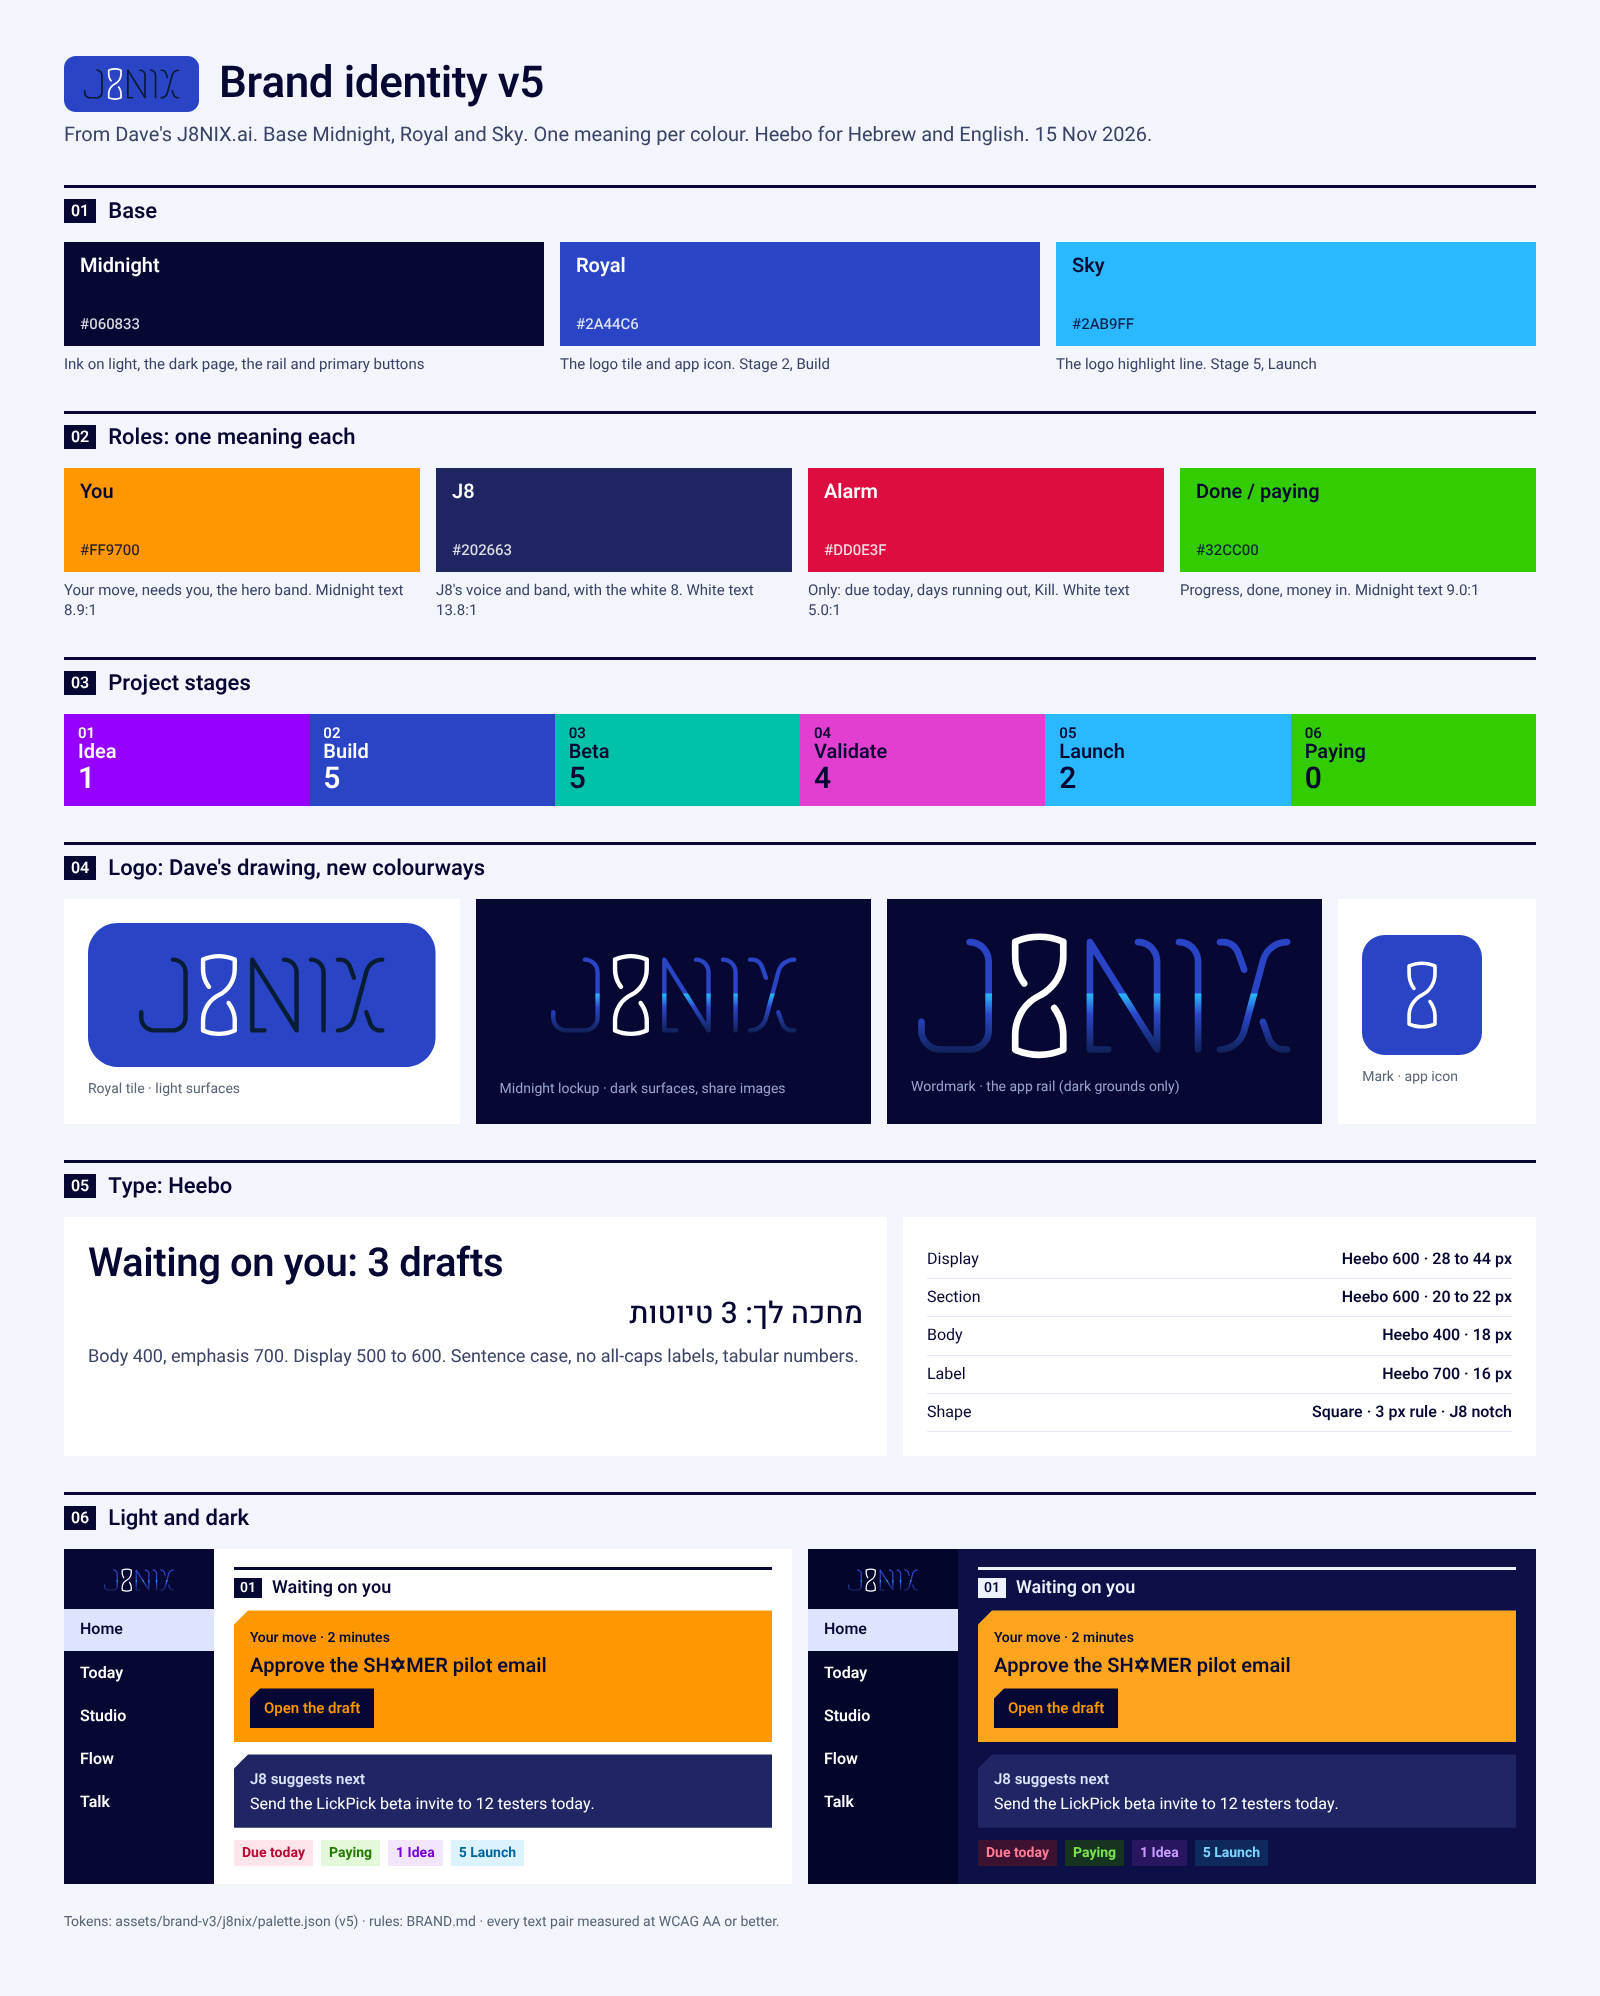
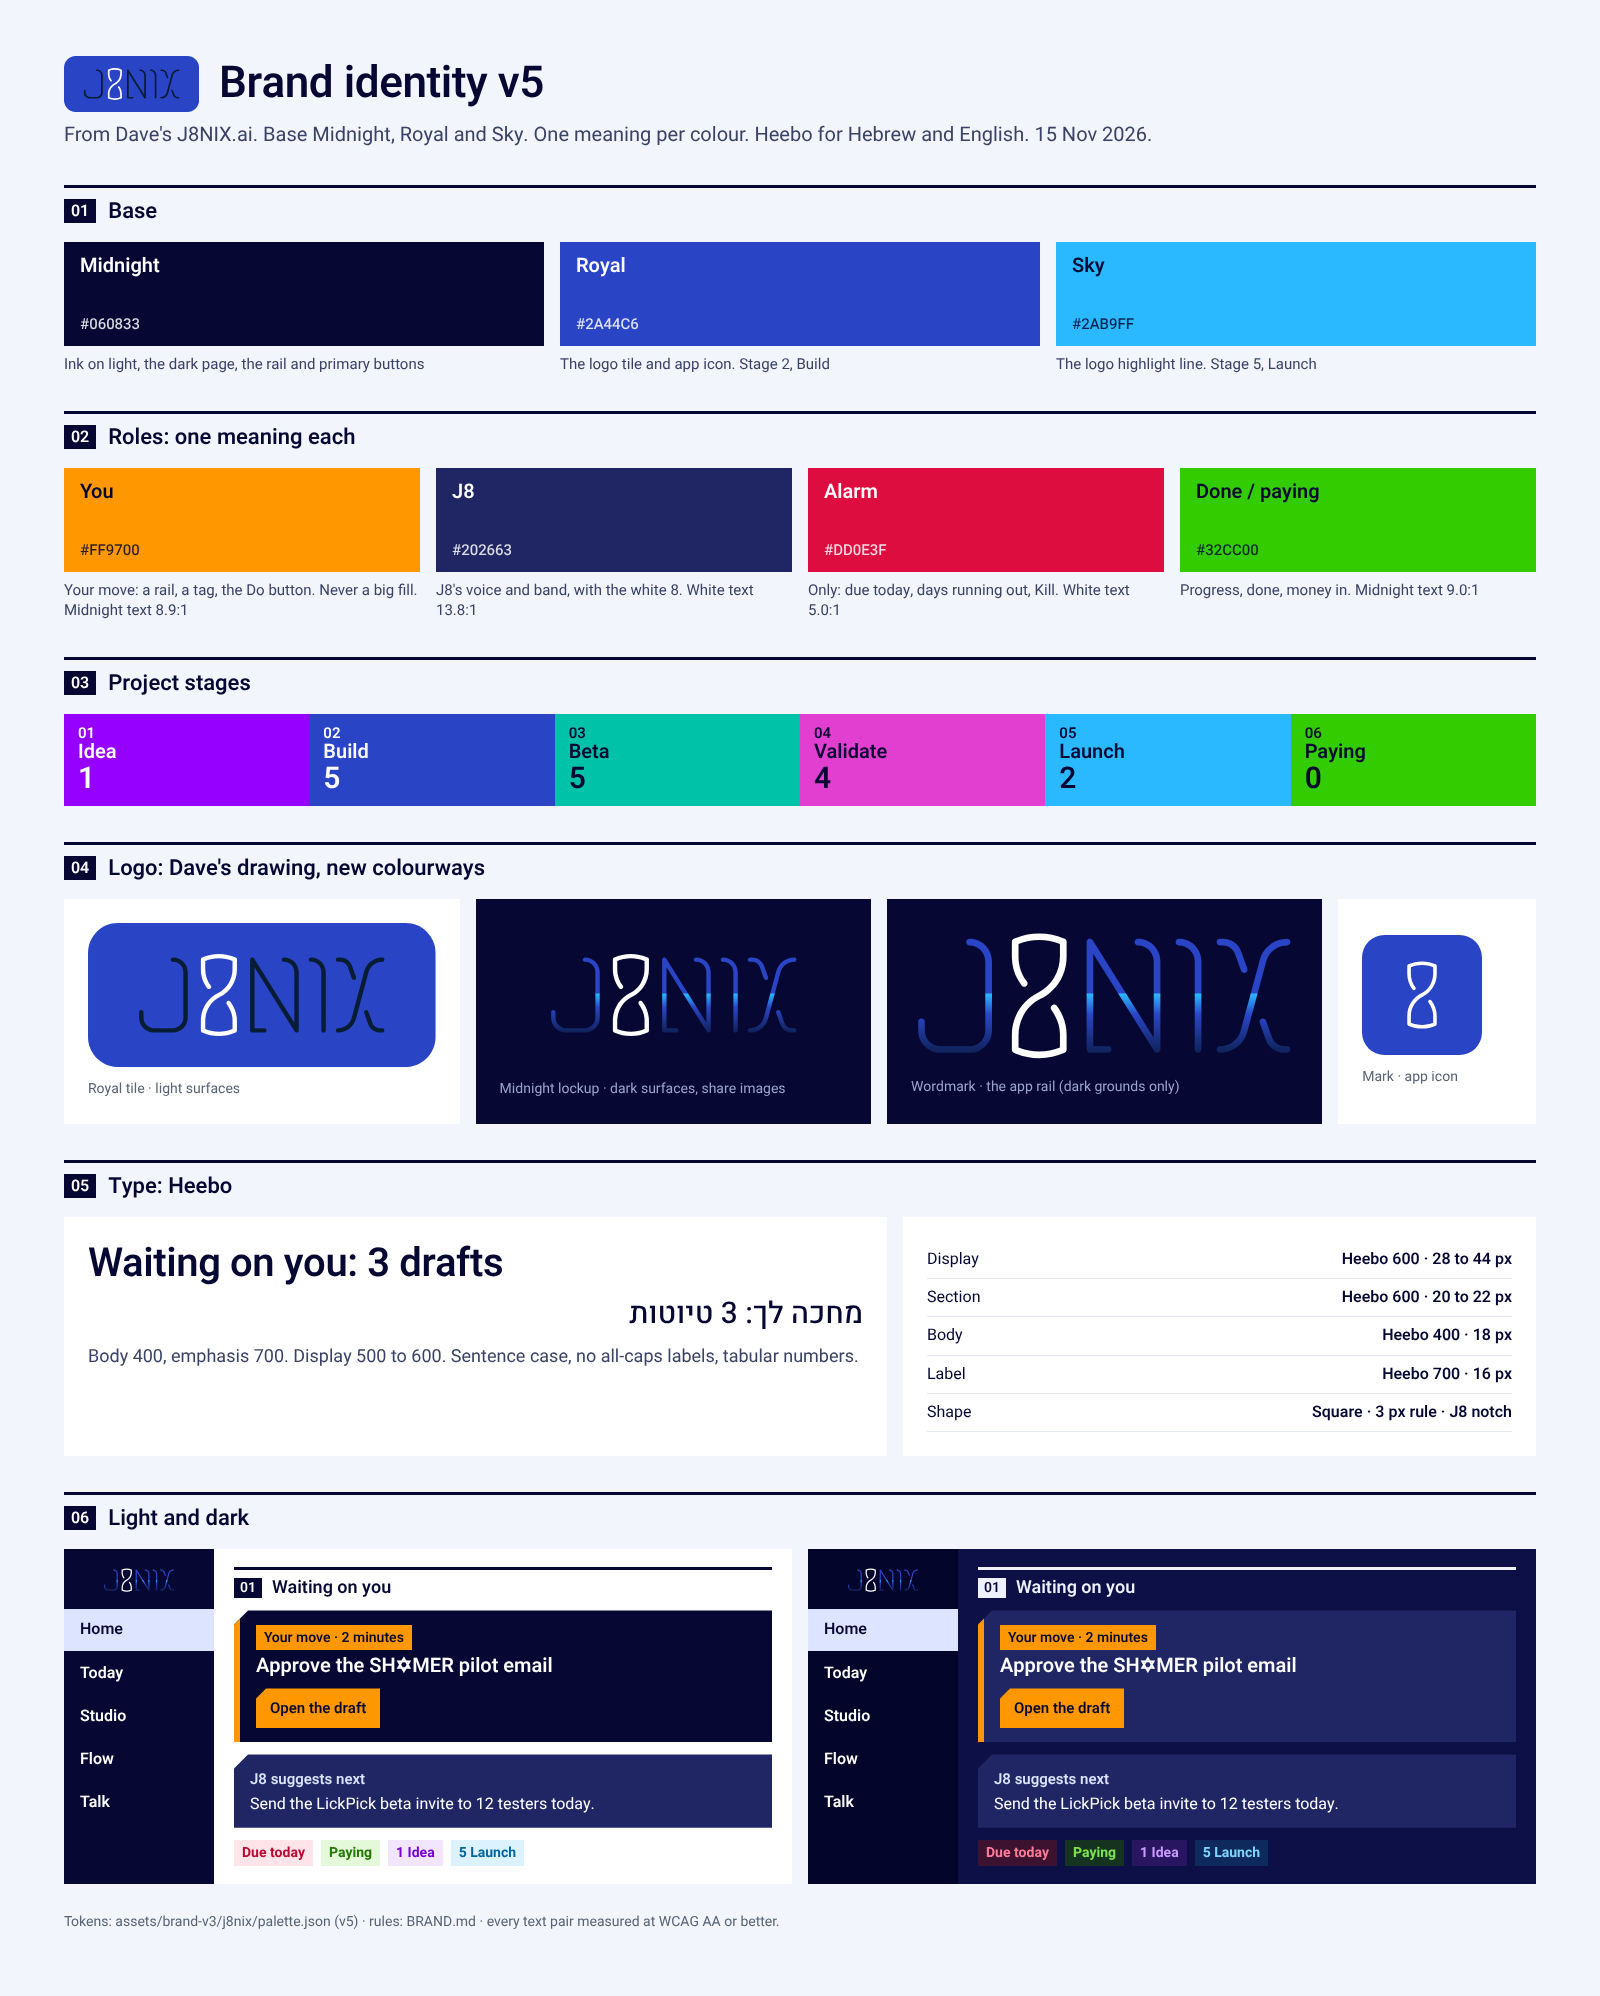
J8NIX brand v5: Orange is a rail, tag or button, never a big fill
Claude-Session: https://claude.ai/code/session_01NYMEjb3suz5Xdw8cPuvfsd

Changed region(s): [[0.5938, 0.8076, 0.9688, 0.8697], [0.125, 0.8076, 0.5, 0.8697], [0.0625, 0.2796, 0.25, 0.3106]]

diff --git a/assets/brand-v3/j8nix/BRAND.md b/assets/brand-v3/j8nix/BRAND.md
@@ -12,7 +12,7 @@ Base: **Midnight `#060833`**, **Royal `#2A44C6`**, **Sky `#2AB9FF`**.
 
 | Meaning | Colour | Text on it | Ink on white / wash |
 |---|---|---|---|
-| **You** (your move, needs you, the hero band) | Orange `#FF9700` | Midnight 8.9:1 | `#9A5200` on `#FFF1DC` 5.3:1 |
+| **You** (your move, needs you: a rail, a tag, the Do button; never a big fill) | Orange `#FF9700` | Midnight 8.9:1 | `#9A5200` on `#FFF1DC` 5.3:1 |
 | **J8** (the AI's voice, J8's band) | Indigo `#202663` + the white 8 | White 13.8:1 | Ice `#DCE4FF` accents 10.9:1 |
 | **Alarm** (only: due today, days running out, zero results, Kill) | Red `#DD0E3F` | White 5.0:1 | `#B80A33` on `#FFE4EA` 5.6:1 |
 | **Done / paying** | Green `#32CC00` | Midnight 9.0:1 | `#237A00` on `#E4F8DA` 4.9:1 |
@@ -66,7 +66,7 @@ Rules:
 3SDS gives each product its own corners. J8NIX's own:
 - **Radius unit 0.** Blocks, bands, buttons, chips and tags are square. Rounded corners appear only on the logo tile and the app icons, which are Dave's drawing.
 - **Sections:** a 3 px Midnight rule and a Midnight index chip (01, 02…).
-- **Full-bleed colour bands** for what matters: the Orange hero, the Indigo J8 band, and the stage lanes.
+- **Full-bleed bands** for what matters: the Midnight hero (Indigo in dark) with a 6 px Orange "you" rail, the Indigo J8 band, and the stage lanes. Orange is never a big fill: only a rail, a small tag or the Do button.
 - **The J8 notch:** a 45° cut on the top-start corner (12–18 px), mirrored in Hebrew, on the hero, the J8 band and primary buttons. It comes from the diagonal of the hourglass 8.
 - Hairlines in Mist-blue. No drop shadows on light. No glows.
 
